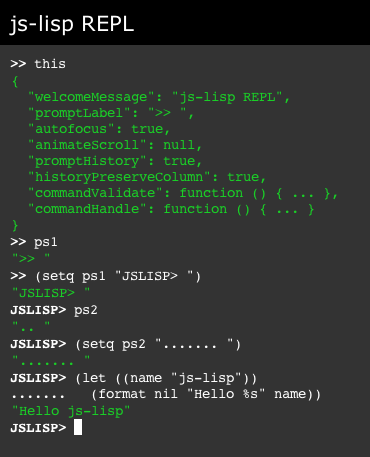
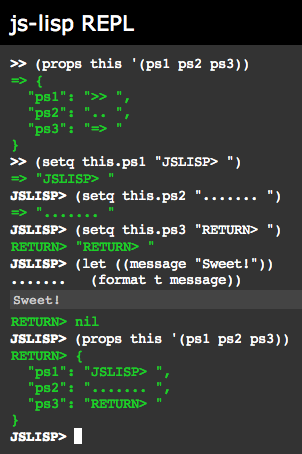
Fixed multiline commands in the REPL. Added a new function, props.

diff --git a/examples/repl/jquery.console.js b/examples/repl/jquery.console.js
@@ -76,7 +76,6 @@
         self.ps1 = config.ps1 || ">> "; // Input
         self.ps2 = config.ps2 || ".. "; // Multiline commands
 		self.ps3 = config.ps3 || "=> "; // Return values
-		self.promptLabel = self.ps1; // The current label
         self.column = 0;
         self.promptText = '';
         self.restoreText = '';
@@ -158,11 +157,12 @@
         ////////////////////////////////////////////////////////////////////////
         // Make a new prompt box
         self.newPromptBox = function () {
+			var promptLabel = self.multiLineCommand ? self.ps2 : self.ps1;
             self.column = 0;
             self.promptText = '';
             self.promptBox = $('<div class="jquery-console-prompt-box"></div>');
             var label = $('<span class="jquery-console-prompt-label"></span>');
-            self.promptBox.append(label.text(self.promptLabel).show());
+            self.promptBox.append(label.text(promptLabel).show());
             self.prompt = $('<span class="jquery-console-prompt"></span>');
             self.promptBox.append(self.prompt);
             inner.append(self.promptBox);
@@ -419,21 +419,18 @@
         // Handle a command
         function handleCommand () {
             if (typeof config.commandHandle == 'function') {
-				var text = self.multiLineCommand ? self.currentText + ' ' + self.promptText
+				var text = self.multiLineCommand ? self.currentText + '\n' + self.promptText
 					: self.promptText;
                 var ret = config.commandHandle(text, function(msgs) {
                     self.commandResult(msgs);
                 });
 				if (ret === null) { // This command needs more text
-					self.promptLabel = self.ps2;
 					self.multiLineCommand = true;
 					self.currentText = text;
 		            self.column = -1;
 		            updatePromptDisplay();
 		            self.newPromptBox();
 				} else {
-					self.promptLabel = self.ps1;
-					
 					if (typeof ret == 'boolean') {
 	                    if (ret) {
 	                        // Command succeeded without a result.
@@ -461,7 +458,6 @@
         // Reset the prompt in invalid command
         self.commandResult = function (msg,className) {
 			self.multiLineCommand = false;
-			self.promptLabel = self.ps1;
 			self.currentText = "";
             self.column = -1;
             updatePromptDisplay();

diff --git a/build/lisp.js b/build/lisp.js
@@ -2122,11 +2122,11 @@ defun("map", function (func, list) {
 			arguments.length + ")");
 	}
 	if (typeof(func) != "function") {
-		throw new Error("(map) requires a function as its first value (got " +
+		throw new Error("(map) requires a function as its first argument (got " +
 			String(func) + ")");
 	}
 	if (!(list instanceof Array)) {
-		throw new Error("(map) requires a list as its second value (got " +
+		throw new Error("(map) requires a list as its second argument (got " +
 			String(list) + ")");
 	}
 	var newlist = [];
@@ -2134,6 +2134,29 @@ defun("map", function (func, list) {
 		newlist.push(func(list[i]));
 	}
 	return newlist;
+});
+
+/**
+ * Returns an object containing the values of each property
+ * in the given list on the given object.
+ * 
+ * TODO: Test me
+ */
+defun("props", function (object, list) {
+	if (arguments.length !== 2) {
+		throw new Error("(props) requires 2 arguments (got " +
+			arguments.length + ")");
+	}
+	if (!(list instanceof Array)) {
+		throw new Error("(props) requires a list as its second argument " +
+			"(got " + String(list) + ")");
+	}
+	var newObject = {};
+	for (var i = 0; i < list.length; i++) {
+		var key = list[i];
+		newObject[key] = object[key];
+	}
+	return newObject;
 });
 return {
 	VERSION: "0.0.1",

diff --git a/src/javascript/defuns.js b/src/javascript/defuns.js
@@ -439,11 +439,11 @@ defun("map", function (func, list) {
 			arguments.length + ")");
 	}
 	if (typeof(func) != "function") {
-		throw new Error("(map) requires a function as its first value (got " +
+		throw new Error("(map) requires a function as its first argument (got " +
 			String(func) + ")");
 	}
 	if (!(list instanceof Array)) {
-		throw new Error("(map) requires a list as its second value (got " +
+		throw new Error("(map) requires a list as its second argument (got " +
 			String(list) + ")");
 	}
 	var newlist = [];
@@ -451,4 +451,27 @@ defun("map", function (func, list) {
 		newlist.push(func(list[i]));
 	}
 	return newlist;
+});
+
+/**
+ * Returns an object containing the values of each property
+ * in the given list on the given object.
+ * 
+ * TODO: Test me
+ */
+defun("props", function (object, list) {
+	if (arguments.length !== 2) {
+		throw new Error("(props) requires 2 arguments (got " +
+			arguments.length + ")");
+	}
+	if (!(list instanceof Array)) {
+		throw new Error("(props) requires a list as its second argument " +
+			"(got " + String(list) + ")");
+	}
+	var newObject = {};
+	for (var i = 0; i < list.length; i++) {
+		var key = list[i];
+		newObject[key] = object[key];
+	}
+	return newObject;
 });

diff --git a/README.md b/README.md
@@ -23,11 +23,13 @@ The `onload` part is the magic part. This is what evaluates the lisp code. Alter
 
 The REPL is located at /examples/repl/ (follow the steps under the section "How do I view the tests and html documentation?" to start a simple webserver at the root of the project), and works just like any other REPL. The console emulator is [jquery-console][0], with a few modifications of my own.
 
-Here are a couple shots of the REPL in action:
+Here are a few shots of the REPL in action:
 
 ![](http://github.com/willurd/js-lisp/raw/master/docs/readme/repl1.png)
 
 ![](http://github.com/willurd/js-lisp/raw/master/docs/readme/repl2.png)
+
+![](http://github.com/willurd/js-lisp/raw/master/docs/readme/repl3.png)
 
 Have fun!
 
